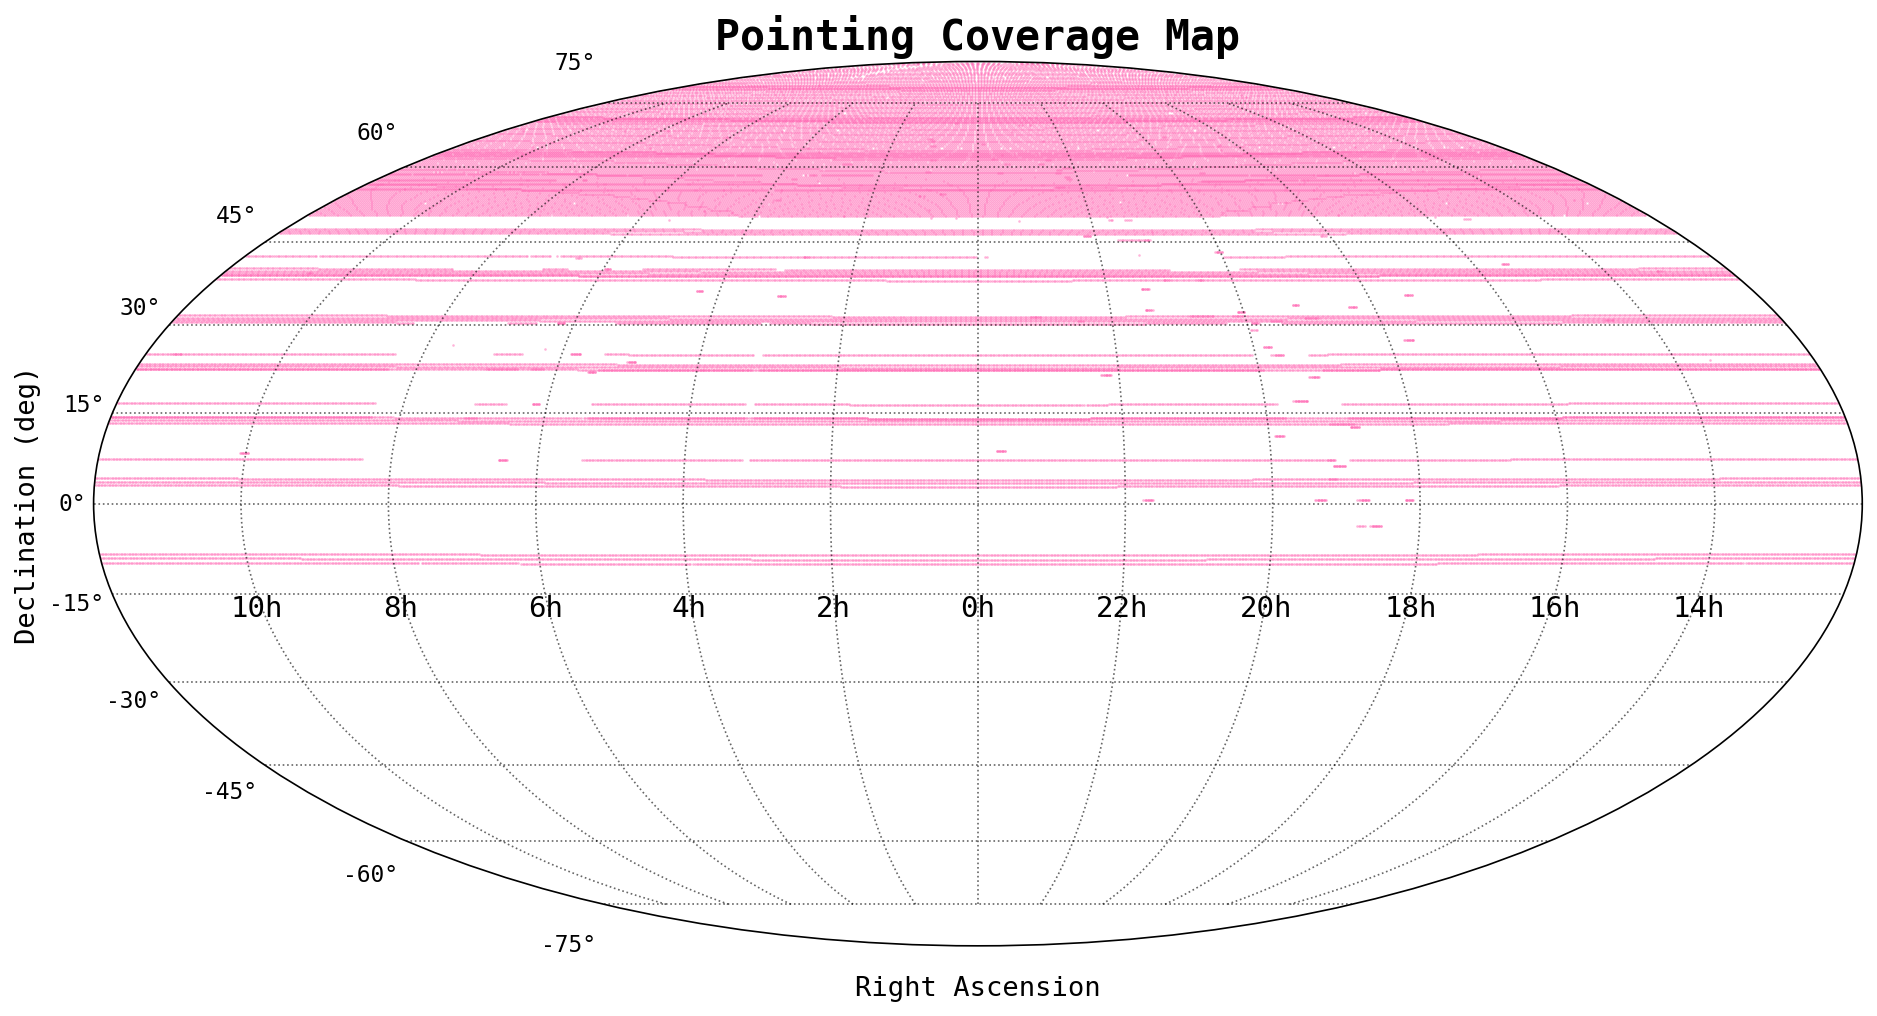
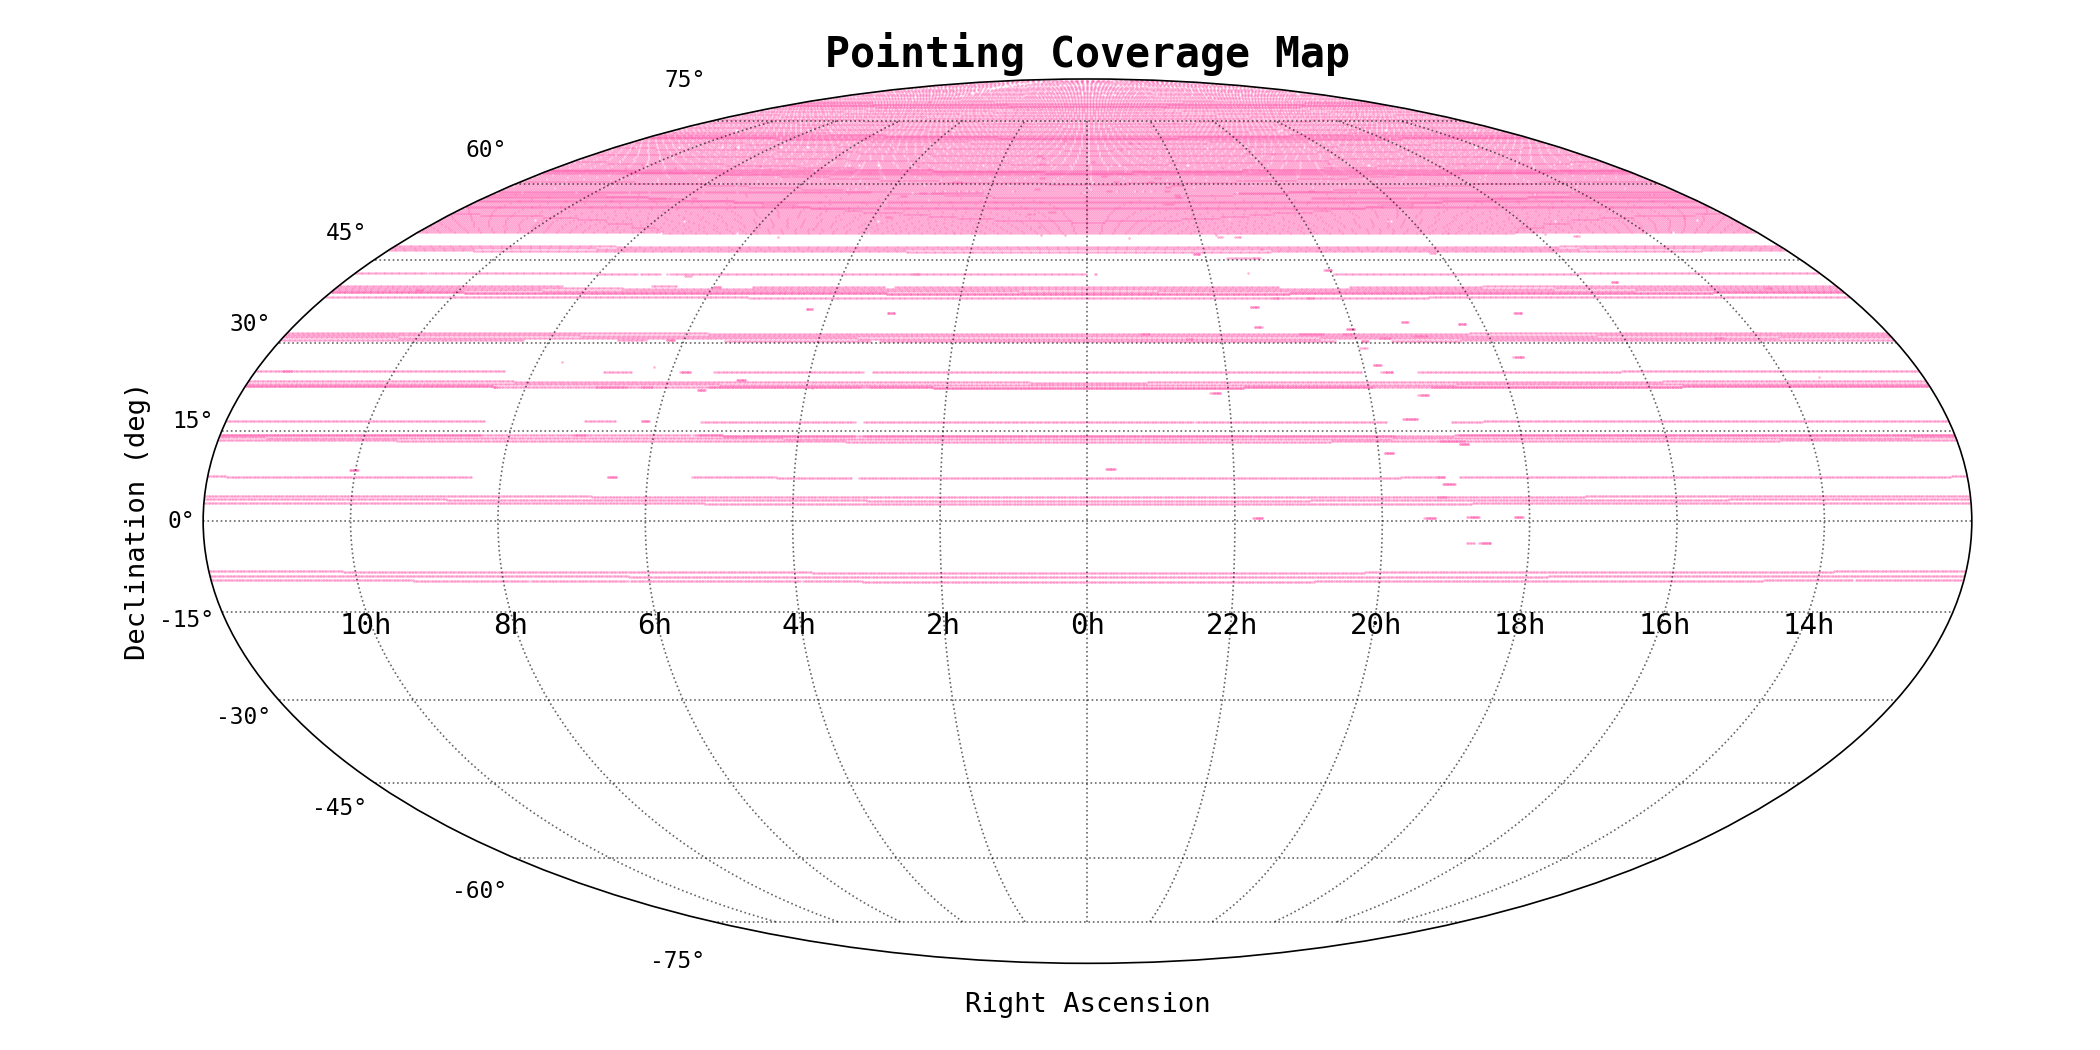
fixed difference in dpi issue

diff --git a/scripts/rednoise_skymap.py b/scripts/rednoise_skymap.py
@@ -383,7 +383,7 @@ def _setup_axes(dpi=150):
     '''
     This function sets up the figure and the Mollweide axes!
     '''
-    fig = plt.figure(figsize=(10, 5), dpi=dpi)
+    fig = plt.figure(figsize=(14, 7), dpi=dpi)
     ax = fig.add_subplot(111, projection="mollweide")
     ax.set_facecolor('white')
     ax.grid(True, linestyle=":", alpha=0.6, color="black")
@@ -455,7 +455,7 @@ def plot_skymap(ra, dec, mean_rn, smooth_deg, display_res=0.25,
     plt.tight_layout()
 
     if output_path:
-        plt.savefig(output_path, dpi=dpi, bbox_inches="tight")
+        plt.savefig(output_path, dpi=dpi)
         print(f'Skymap saved to {output_path}', flush=True)
     else:
         plt.show()
@@ -485,7 +485,7 @@ def plot_coverage(ra, dec, dpi=150, output_path=None):
     plt.tight_layout()
 
     if output_path:
-        plt.savefig(output_path, dpi=dpi, bbox_inches="tight")
+        plt.savefig(output_path, dpi=dpi)
         print(f'Coverage map saved to {output_path}', flush=True)
     else:
         plt.show()
